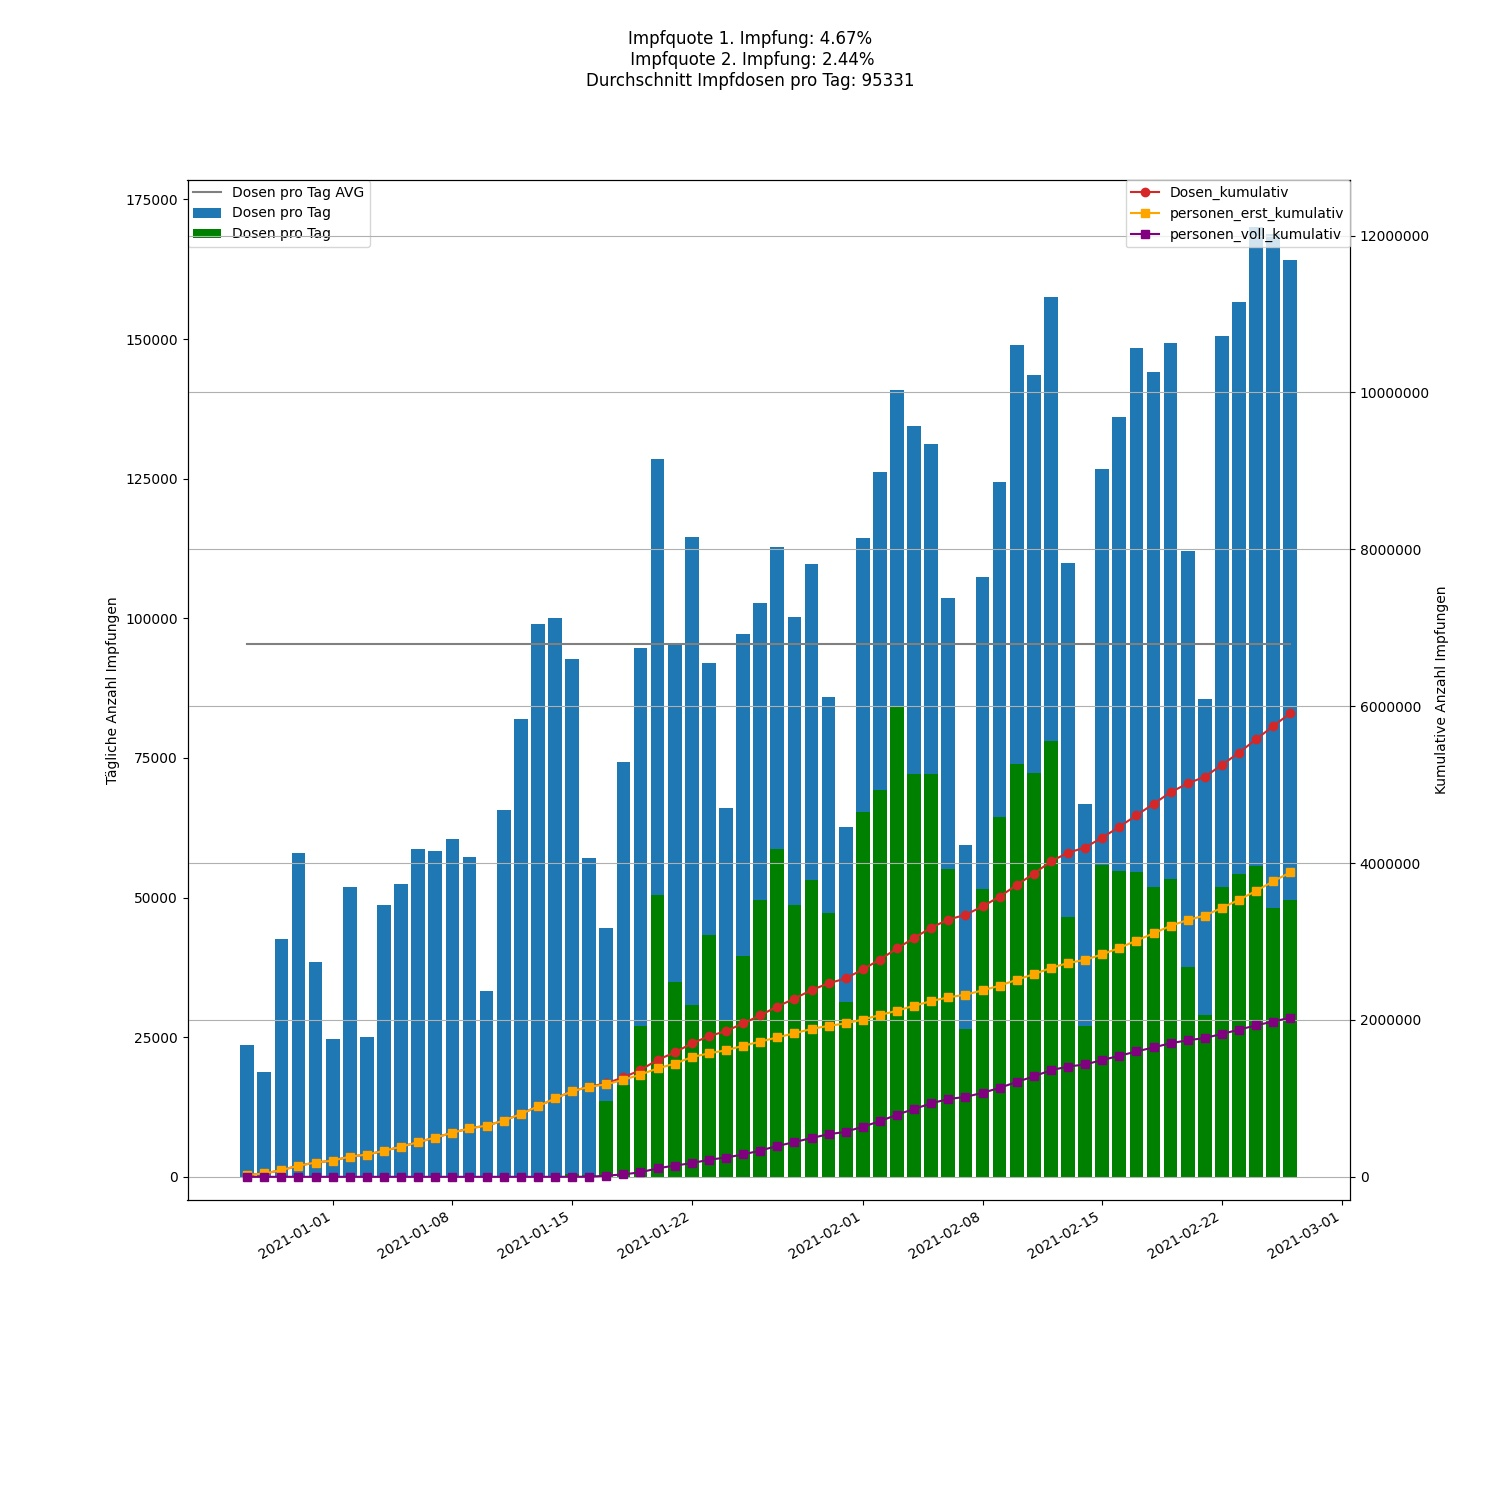
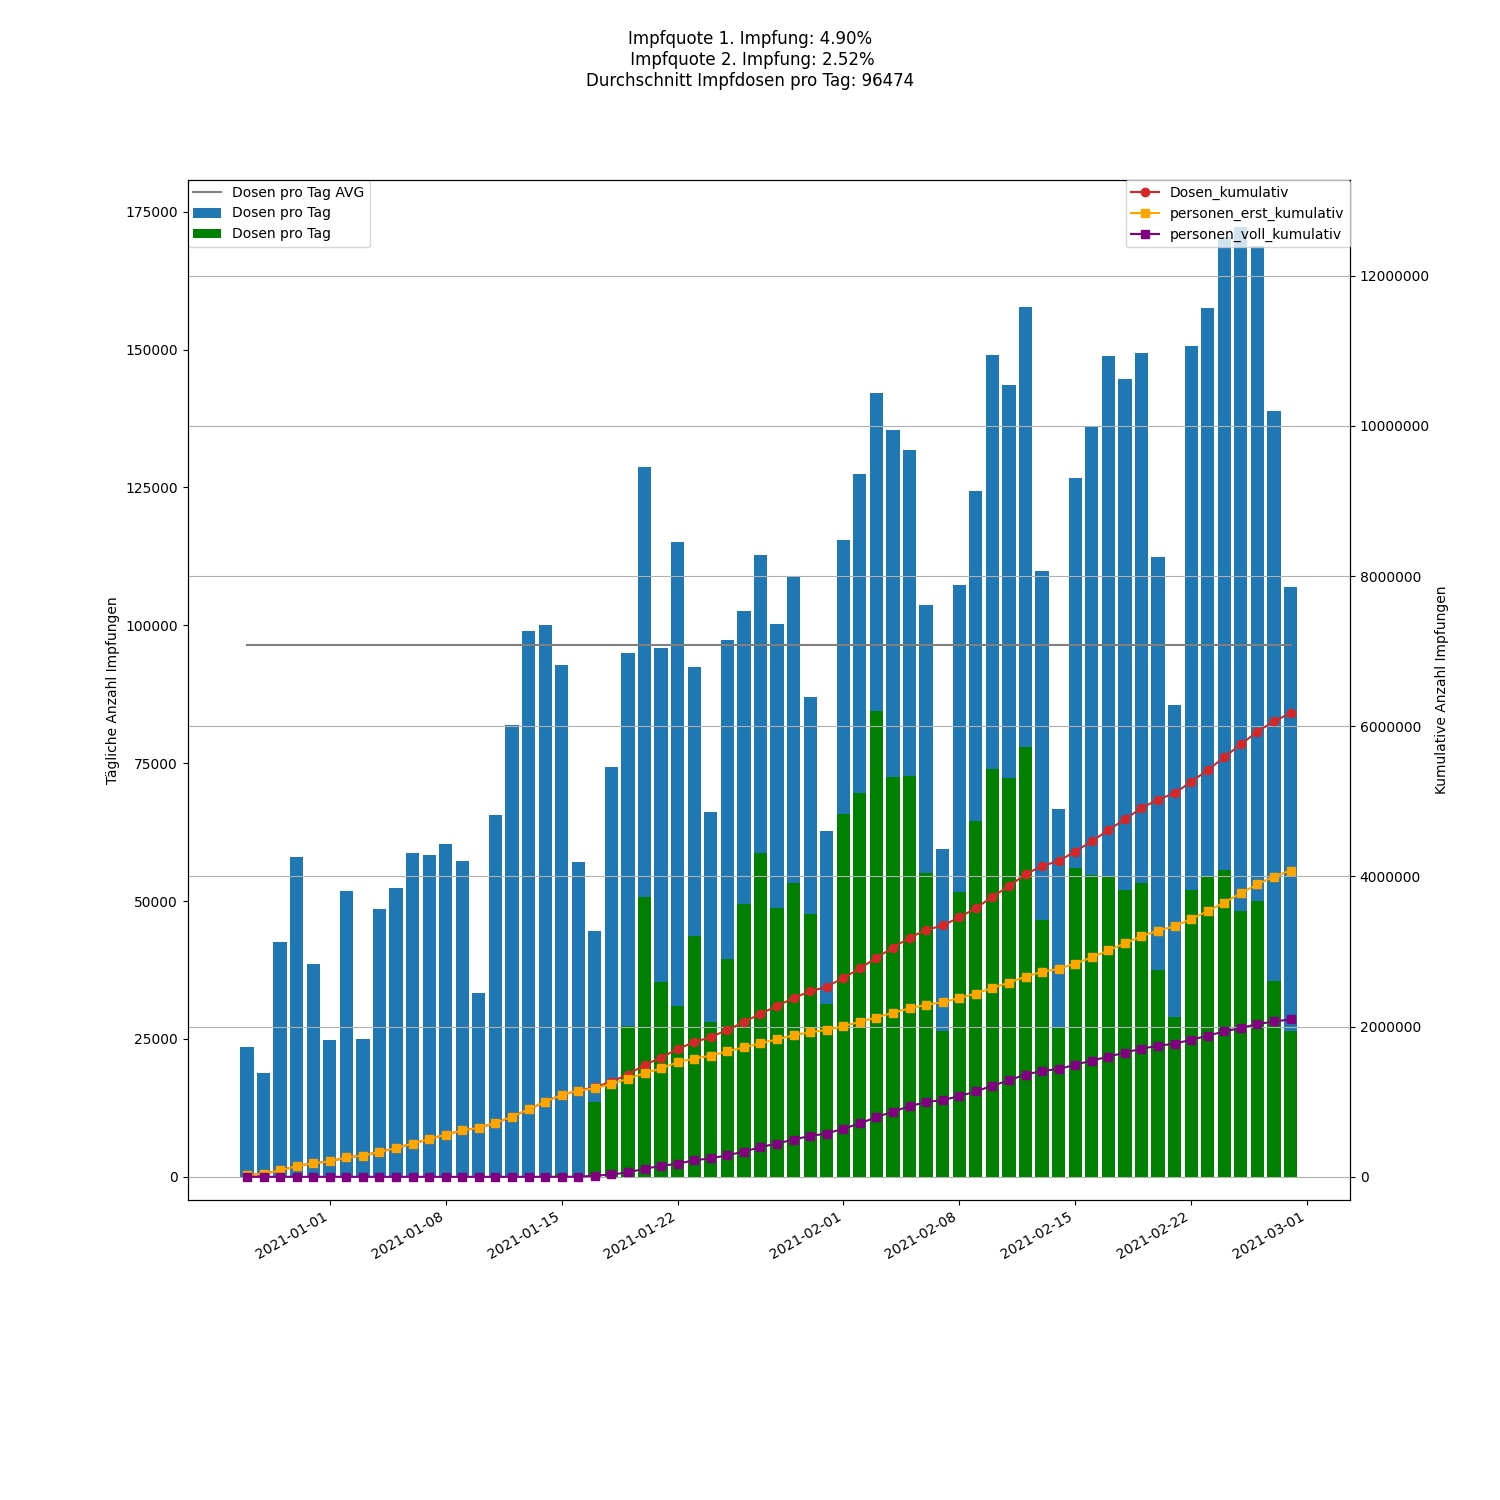
Crontab commit

diff --git a/Readme.md b/Readme.md
@@ -1,19 +1,19 @@
-# Corona vaccine Germany - Stand 2021-02-26
+# Corona vaccine Germany - Stand 2021-02-28
 ## Dashboard by [Simon Hamacher](https://www.shamacher.eu)
 ## Impfstoffe Übersicht
 **Impfstoffhersteller** | **verimpfte Dosen**
 -------- | :--------:
-Biontech | 5378703
-Moderna | 168189
-Astrazeneca | 363645
+Biontech | 5543772
+Moderna | 175981
+Astrazeneca | 454609
 
 
 ## Quoten
-**Total Verimpfte Dosen:** | 5910537
+**Total Verimpfte Dosen:** | 6174362
 -------- | :--------:
-**Erst-Impfquote** | 4.67 %
-**Voll-Impfquote** | 2.44 %
-**Imfungen Durchschnitt** | 95331.24 pro Tag
+**Erst-Impfquote** | 4.90 %
+**Voll-Impfquote** | 2.52 %
+**Imfungen Durchschnitt** | 96474.41 pro Tag
 ## Graphen
 <img src="Impfungen-Corona-01.jpg" alt="Corona-1" title="optionaler Titel" />
 <img src="Impfungen-Corona-02.jpg" alt="Corona-2" title="optionaler Titel" />
